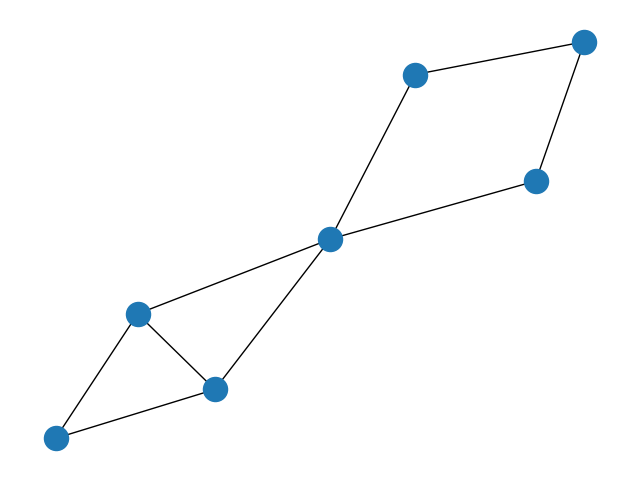
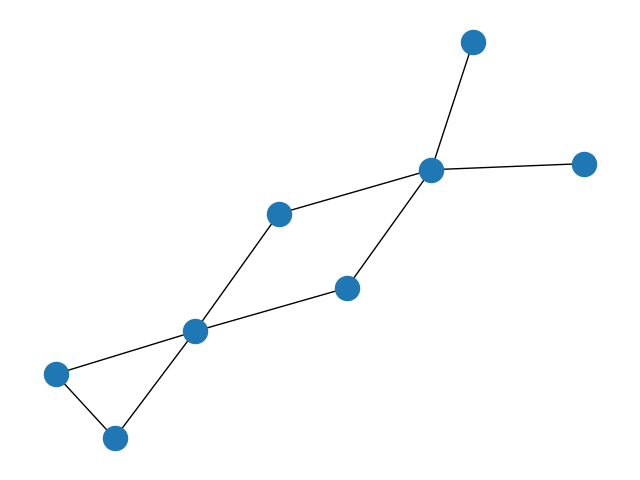
fixed PBH test

diff --git a/matrixMath.py b/matrixMath.py
@@ -56,20 +56,29 @@ def pbhTest(matrix, eigenValues, eigenVectors):
     uncontrollablePairs = 0
     controllablePairs = 0
 
+    goToNext = False
     for i in range(1, (2 ** dim) - 1):
         binaryString = bin(i)[2:].rjust(dim, '0')
         controlVector = np.array(list(binaryString)).astype(int)
+
+        nonZeroPairs = 0
         for eigenVector in eigenVectors:
+            if goToNext:
+                goToNext = False
             innerProduct = np.dot(controlVector, eigenVector)
-            if (innerProduct == 0):
+            if (abs(innerProduct) < 1e-10):
                 uncontrollablePairs += 1
+                goToNext = True
                 break
+            else:
+                nonZeroPairs += 1
+        if nonZeroPairs == dim:
+            controllablePairs += 1
             
         if (uncontrollablePairs > 0 and controllablePairs > 0):
             return 'conditionally controllable'
 
-    print(uncontrollablePairs, controllablePairs)
-    if uncontrollablePairs == dim * ((2 ** dim) - 2):
+    if uncontrollablePairs == (2 ** dim) - 2:
         return 'completely uncontrollable (nondegenerate)'
     elif uncontrollablePairs == 0:
         return 'essentially controllable'

diff --git a/main.py b/main.py
@@ -18,11 +18,22 @@ def visualize_graph(matrix):
     plt.savefig('graph.png')
 
 
-id = '07310660'
-matrix = matrixGeneration.getLaplacianFromId(id)
+id = '0427'
+# matrix = matrixGeneration.getLaplacianFromId(id)
+matrix = [
+    [2,-1,-1,0,0,0,0,0],
+    [-1,2,-1,0,0,0,0,0],
+    [-1,-1,4,-1,-1,0,0,0],
+    [0,0,-1,2,0,-1,0,0],
+    [0,0,-1,0,2,-1,0,0],
+    [0,0,0,-1,-1,4,-1,-1],
+    [0,0,0,0,0,-1,1,0],
+    [0,0,0,0,0,-1,0,1]
+]
+# matrix = matrixGeneration.generateLaplacianMatrix(4)
 [evals, evecs] = matrixMath.getEigenState(matrix)
 matrixMath.printMatrix(matrix)
-print(evals)
+# print(evals)
 # print(evals.size)
 # print(np.unique(evals).size)
 # print(evecs)
